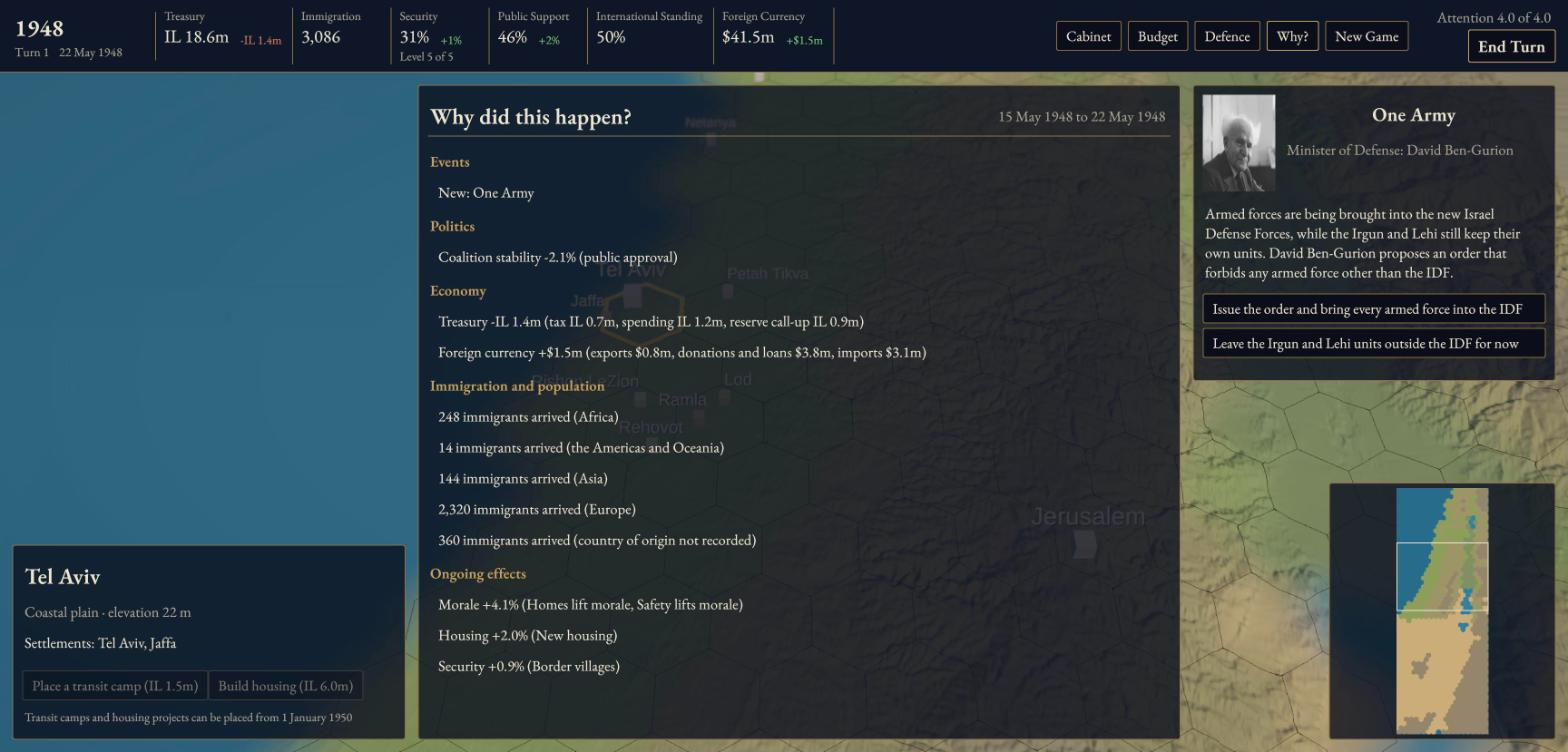
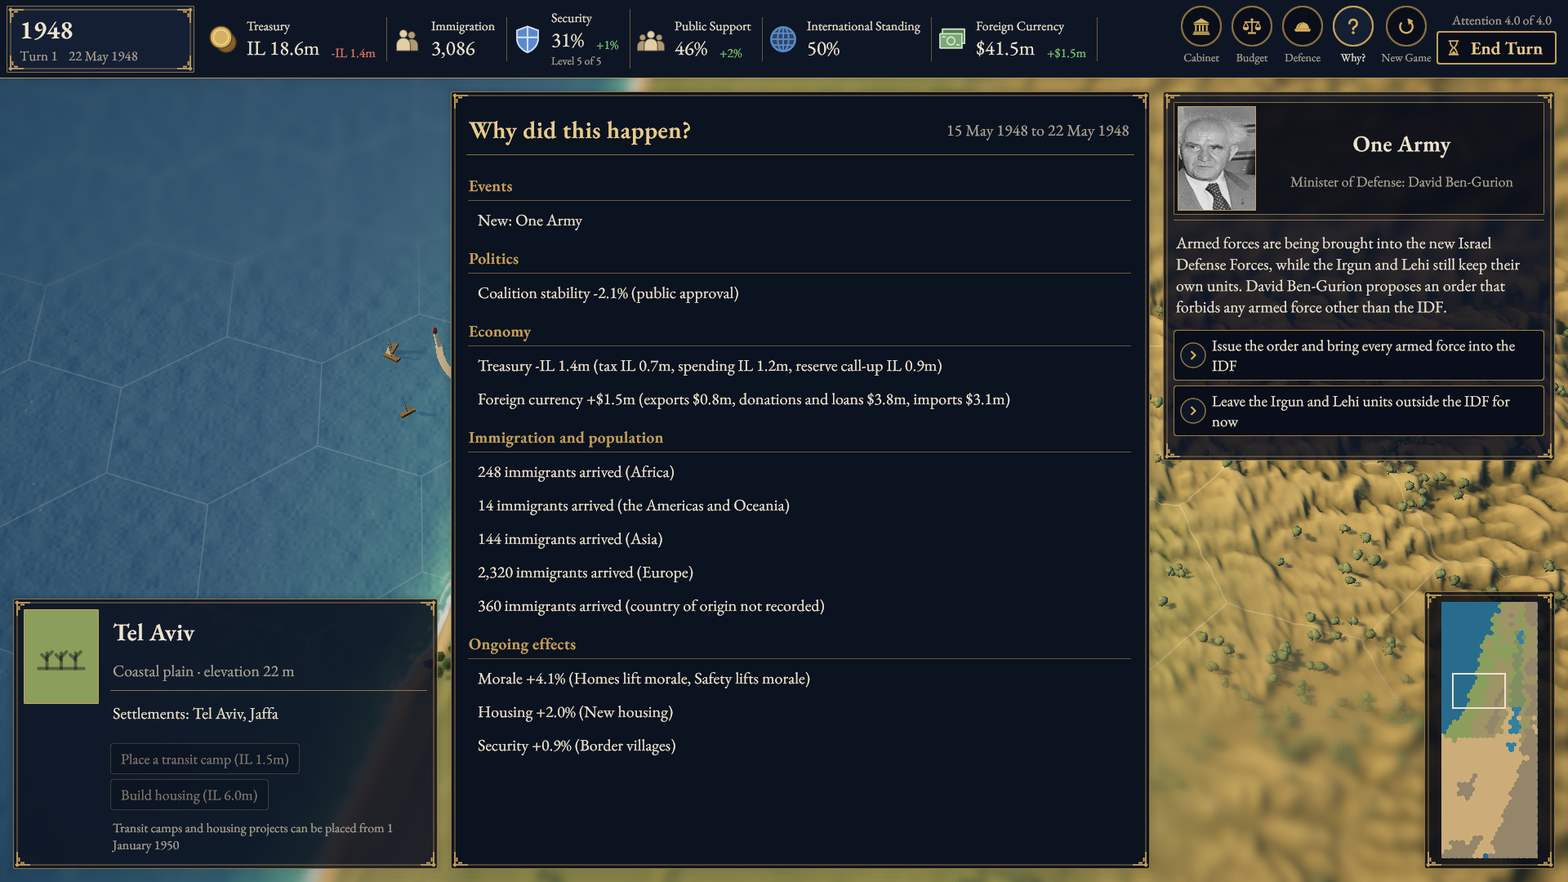
docs(readme): screenshots of current main and stale lines fixed
Re-take the three README screenshots from a WebGL build of main (16c9573):
the player's own ?shot frame at the gameplay03 pose, turn 1 of a fresh
golden-seed game (?smoke=1), 1920x1080, encoded at 1568 px wide. The
social preview is rebuilt from the new map shot (docs/RELEASING.md).
Caption date 2026-10-11; the map alt text names what the frame shows.

Stale lines: Visual v1 is done, settlements are placeholder kits and trees
(#179), the tab icon was drawn with AI help (#169), and the portraits
include CC0 files.

diff --git a/scripts/oss/tests/test_readme.py b/scripts/oss/tests/test_readme.py
@@ -128,7 +128,7 @@ def test_contributing_links_the_issue_filters_and_the_open_issues():
 
 def test_hebrew_readme_keeps_the_english_facts():
     he = read("README.he.md")
-    for fact in ("15 במאי 1948", "M3", "0.1.0", "2026-10-10", "M4", "CC BY-SA 4.0", "CC0", "Firaxis", "2K", "1936",
+    for fact in ("15 במאי 1948", "M3", "0.1.0", "2026-10-11", "M4", "CC BY-SA 4.0", "CC0", "Firaxis", "2K", "1936",
                  "6000.3.25f1", "docs/CONTENT_POLICY.md", "historical_accuracy.yml", "SECURITY.md"):
         assert fact in he, fact
     assert "מסחרית" in he  # a commercial edition is planned

diff --git a/README.md b/README.md
@@ -38,12 +38,12 @@ A deterministic C# simulation runs underneath. The same choices always give the 
 ## What it looks like today
 
 <p align="center">
-  <img src="docs/images/build-m3-map.jpg" alt="Current build: the terrain map of the coastal plain and Jerusalem with hex lines, settlement markers, the top bar and an event card" width="820">
+  <img src="docs/images/build-m3-map.jpg" alt="Current build: the coastal plain around Tel Aviv, Jaffa and Ramla with hex lines, settlement models and trees, the top bar and an event card" width="820">
 </p>
 <p align="center">
   <img src="docs/images/build-m3-cabinet.jpg" alt="Current build: the Cabinet screen listing the Provisional Government's ministers with portraits" width="405">
   <img src="docs/images/build-m3-why.jpg" alt="Current build: the Why panel explaining a turn's changes" width="405">
-  <br><em>Real screenshots from build 0.1.0 (M3), 2026-10-10.</em>
+  <br><em>Real screenshots from build 0.1.0 (M3), 2026-10-11.</em>
 </p>
 
 ## Is this any good?
@@ -61,7 +61,7 @@ It is an early, honest prototype.
 - The browser (WebGL) build.
 
 **What is missing:**
-- The art in the concept image above. Settlements are still simple markers.
+- The art in the concept image above. Settlements and trees are still placeholder art.
 - Diplomacy.
 - War mode.
 - Anything after 1951.
@@ -69,7 +69,7 @@ It is an early, honest prototype.
 
 ## Roadmap
 
-- **Visual v1 (next):** shadows at map scale, a two-band tilt-shift, a stylised terrain shader, a graded sea, a cleaner hex grid and serif labels.
+- **Visual v1 (done):** shadows at map scale, a two-band tilt-shift, a stylised terrain shader, a graded sea, a cleaner hex grid and serif labels.
 - **M4:** the full 1948–1956 slice, war mode for 1948 and Suez, the legacy report, a historian review and a hosted browser build.
 - **Art track:** era-correct 3D settlements, vegetation and units, toward the concept image.
 
@@ -125,7 +125,7 @@ You need Unity **6000.3.25f1 (6.3 LTS)** with Web Build Support; the exact versi
 
 This project is built with heavy AI assistance, disclosed here using itch.io's categories:
 - **Code:** written with AI coding agents and reviewed through tests and review gates.
-- **Graphics:** the concept and promo images in `promo/` are AI-generated. The game's terrain comes from real elevation data. The portraits are public-domain photographs.
+- **Graphics:** the concept and promo images in `promo/` are AI-generated, and the web page's tab icon was drawn with AI help. The game's terrain comes from real elevation data. The portraits are public-domain or CC0 photographs.
 - **Text:** event and content text was drafted with AI, and every fact is checked against the cited source.
 - **Sound:** none yet.
 
@@ -137,7 +137,7 @@ Nothing is generated live while you play.
 - **Original art, docs and data:** [CC BY 4.0](LICENSES/CC-BY-4.0.txt).
 - **Game content text** (`content/`, which paraphrases its sources, many from Wikipedia): [CC BY-SA 4.0](LICENSES/CC-BY-SA-4.0.txt).
 - **AI-generated images:** marked [CC0](LICENSES/CC0-1.0.txt), with no rights claimed.
-- **Third-party material:** fonts, public-domain portraits and the Unity engine and packages are under their own terms.
+- **Third-party material:** fonts, public-domain and CC0 portraits and the Unity engine and packages are under their own terms.
 
 Details are in [LICENSING.md](LICENSING.md); attributions are in [NOTICE](NOTICE) and [THIRD-PARTY-NOTICES.md](THIRD-PARTY-NOTICES.md), and every image's source is in [ASSETS.yaml](ASSETS.yaml).
 

diff --git a/README.he.md b/README.he.md
@@ -31,7 +31,7 @@ https://github.com/user-attachments/assets/56571db8-446b-444b-8db9-fce57dac53a7
 
 <div dir="rtl">
 
-<p align="center"><em>צילומי מסך אמיתיים מגרסה 0.1.0 (M3), 2026-10-10.</em></p>
+<p align="center"><em>צילומי מסך אמיתיים מגרסה 0.1.0 (M3), 2026-10-11.</em></p>
 
 </div>
 
@@ -95,7 +95,7 @@ https://github.com/user-attachments/assets/56571db8-446b-444b-8db9-fce57dac53a7
 
 ## שימוש בבינה מלאכותית
 
-הפרויקט נבנה בסיוע נרחב של בינה מלאכותית. קוד נכתב עם סוכני קוד ונבדק בבדיקות ובסקירות קוד; תמונות הקונספט והפרומו הן תוצר של בינה מלאכותית, וטקסט האירועים נוסח בסיועה וכל עובדה בו נבדקת מול המקור המצוטט. הפורטרטים הם צילומים בנחלת הכלל, ואין עדיין סאונד. דבר אינו נוצר בזמן אמת במהלך המשחק.
+הפרויקט נבנה בסיוע נרחב של בינה מלאכותית. קוד נכתב עם סוכני קוד ונבדק בבדיקות ובסקירות קוד; תמונות הקונספט והפרומו הן תוצר של בינה מלאכותית, סמל הלשונית של דף המשחק צויר בסיועה, וטקסט האירועים נוסח בסיועה וכל עובדה בו נבדקת מול המקור המצוטט. הפורטרטים הם צילומים בנחלת הכלל או ברישיון CC0, ואין עדיין סאונד. דבר אינו נוצר בזמן אמת במהלך המשחק.
 
 ## רישיון
 
